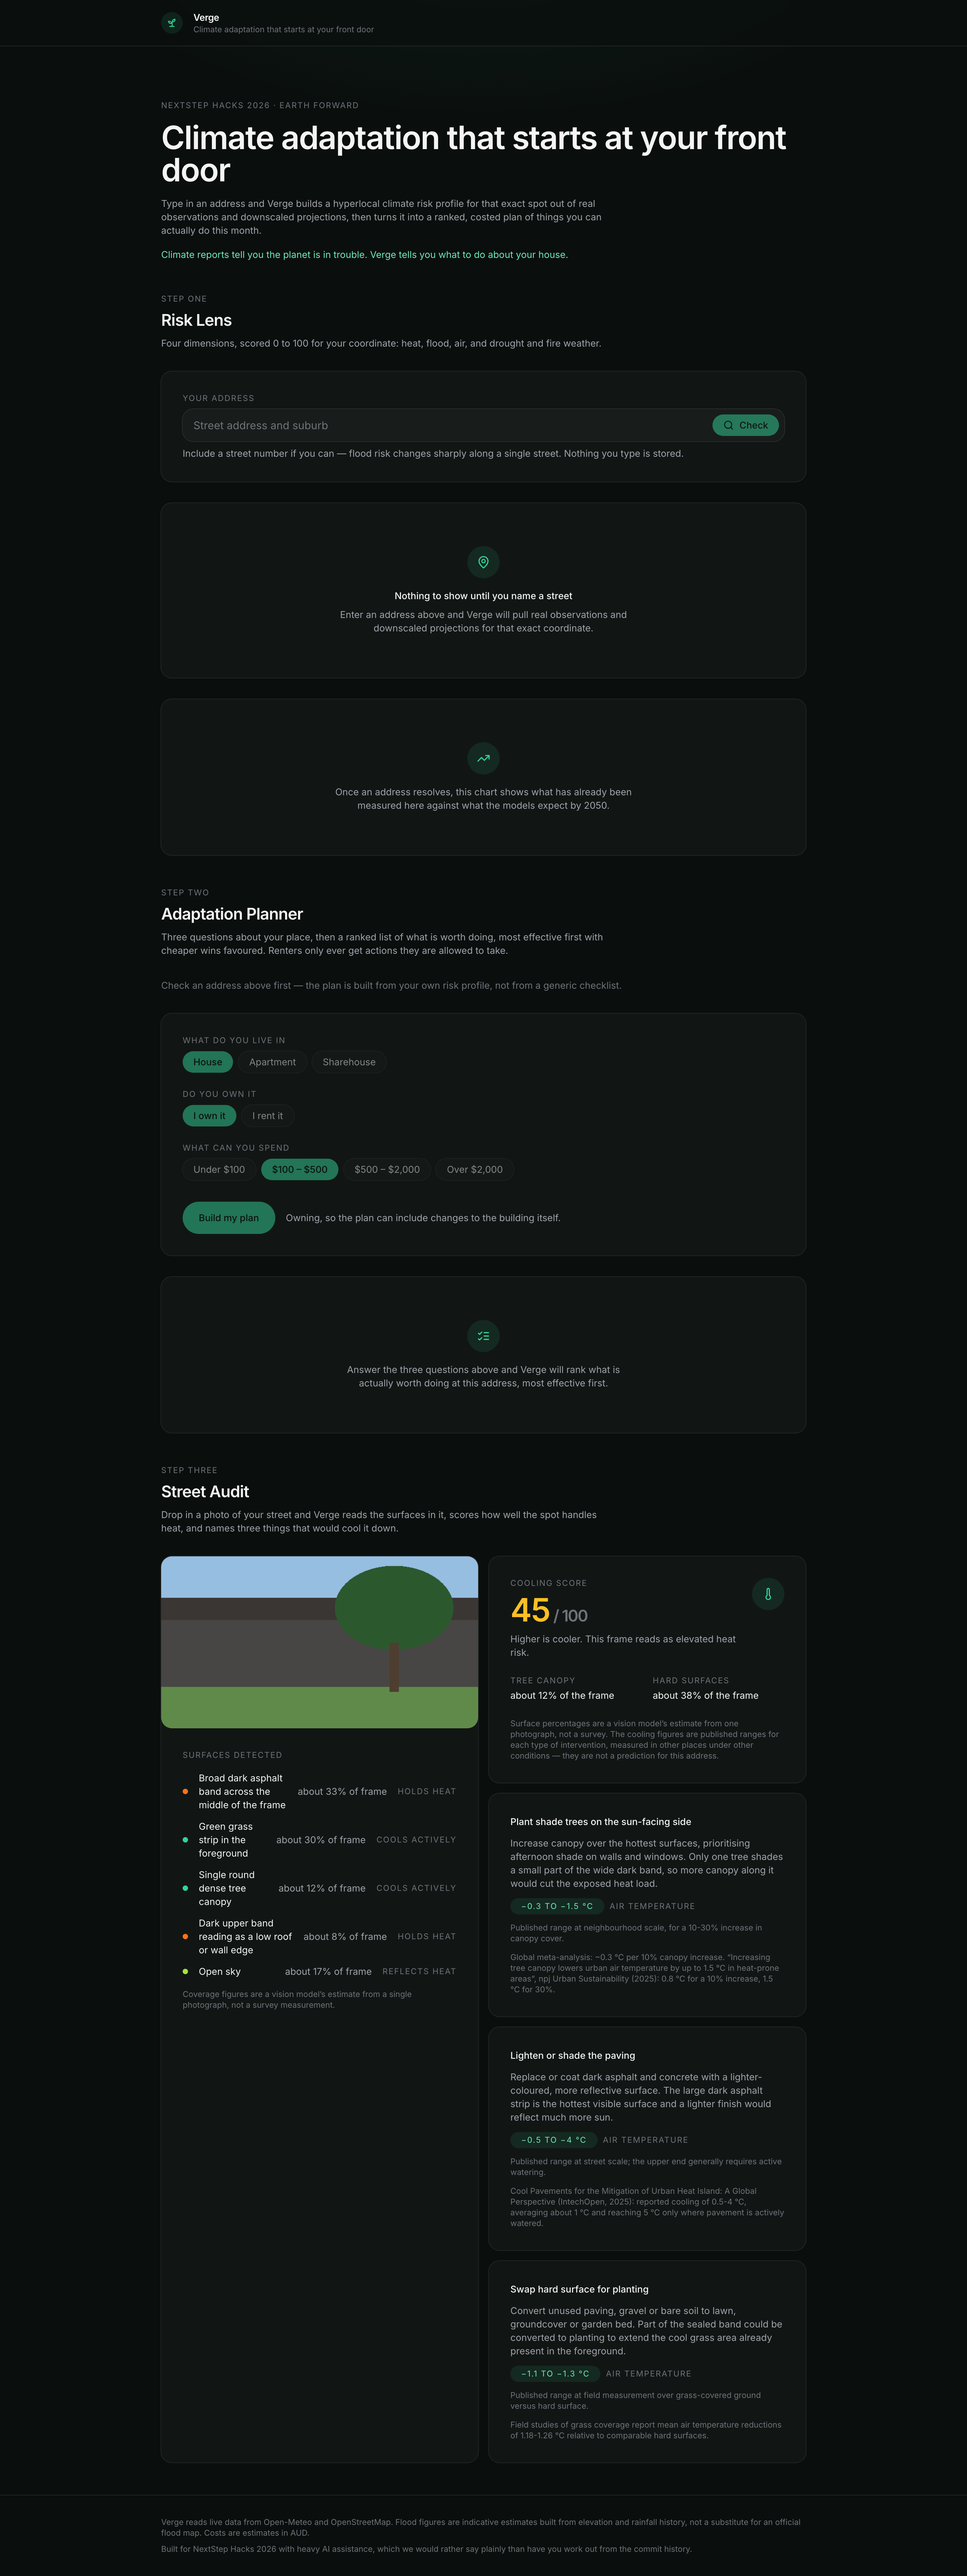
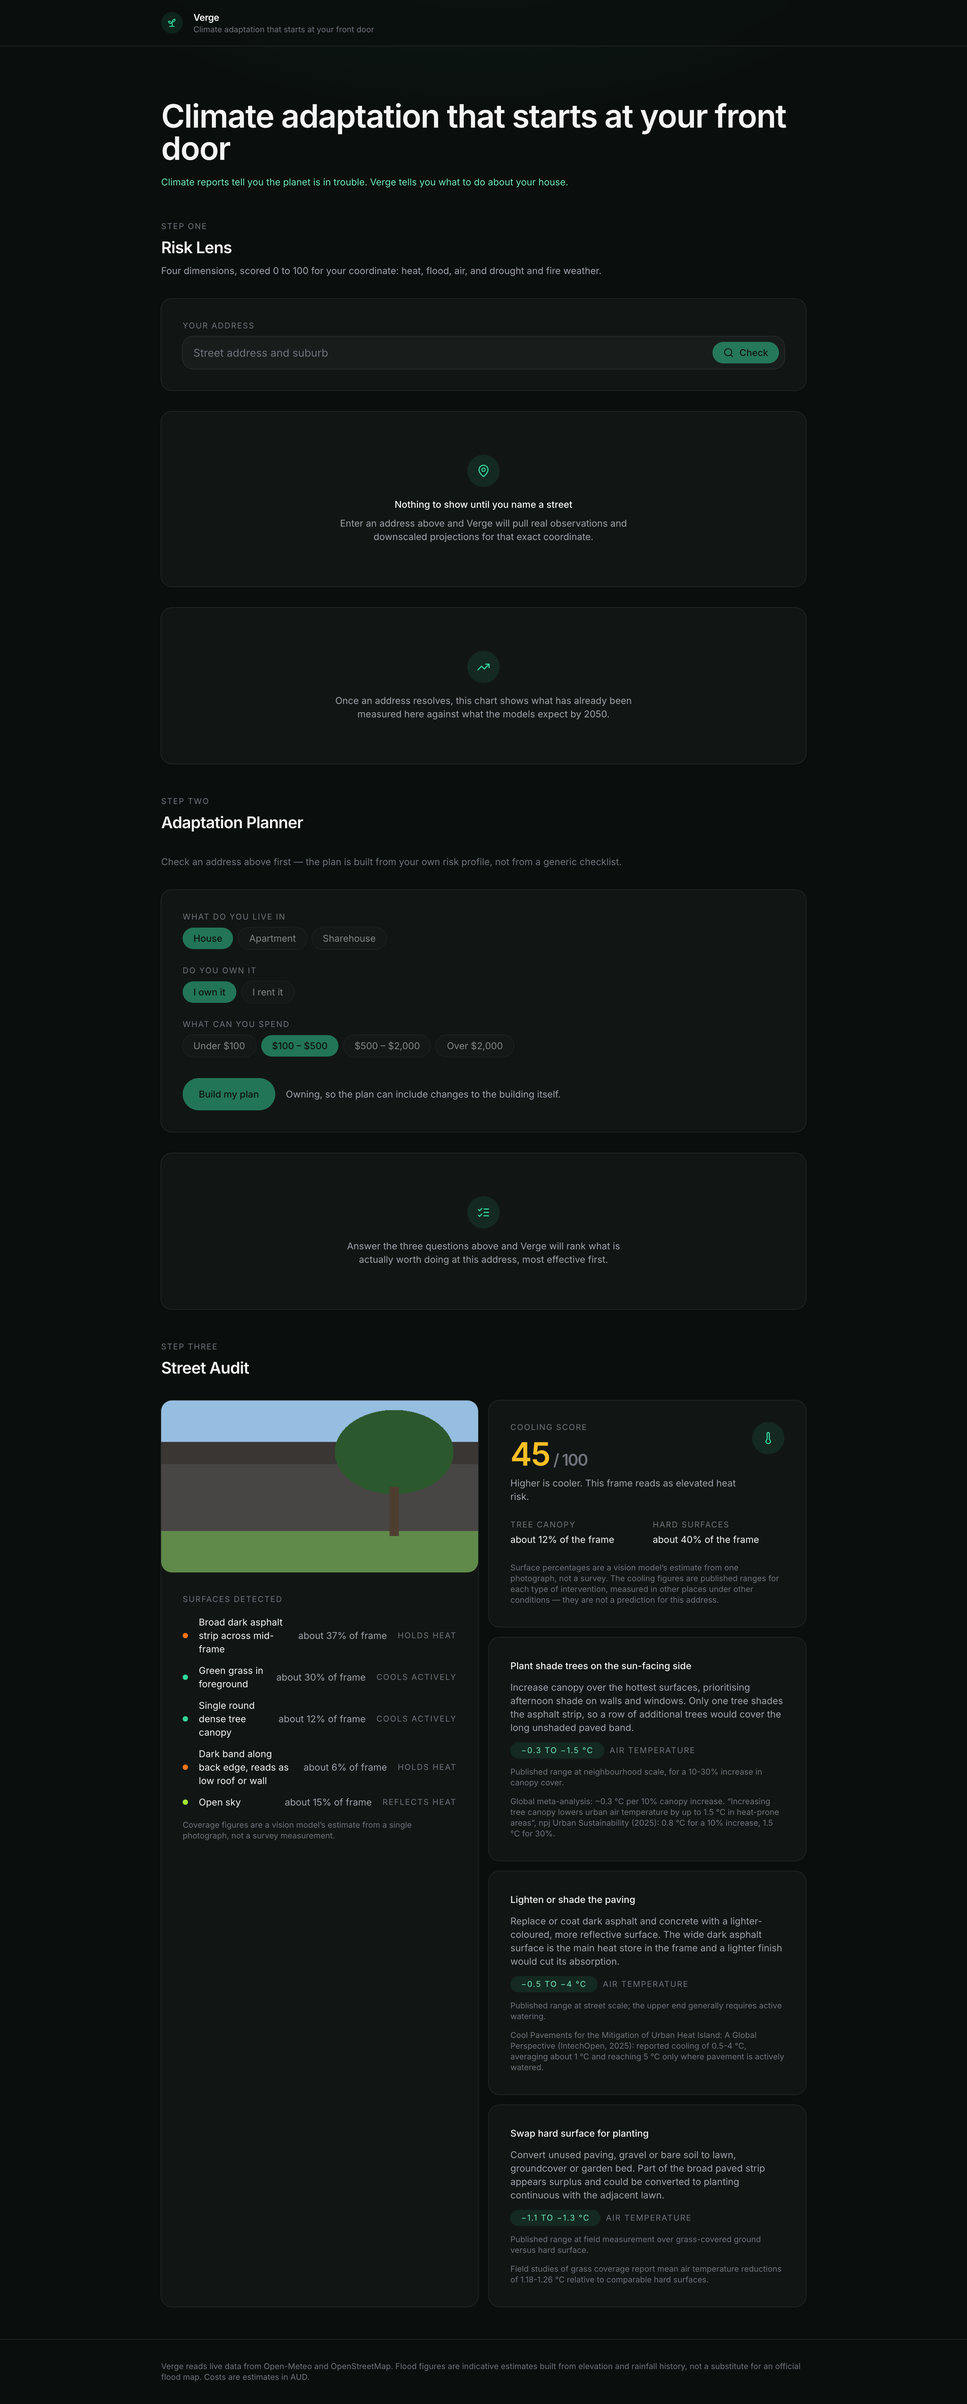
Strip explanatory copy from the live app
Removes eight blocks of prose: the hackathon eyebrow, the hero paragraph, the
address hint, the chart provenance caption, the Planner and Street Audit
section descriptions, the AI-assistance footer line, and the plan disclaimer.

The page was explaining itself where it should have been demonstrating itself.
The hero is now the headline and the positioning line alone, which lands
harder than the paragraph underneath it did.

Checked before removing that nothing required by section 7 leaves the product:

- Costs still read "estimate, AUD" inline on every action card, and the footer
  still says costs are estimates.
- Flood is still labelled "Indicative only - not a flood map" in the dial's own
  verdict, and the footer repeats it.
- The CMIP6 model and the no-SSP note still travel with the heat dial's
  evidence, one click behind "How we got this".
- The AI-assistance disclosure is in README.md, which is what section 7 asks
  for; the footer line was an extra.

Left alone: the PDF export's own footer, which carries the same disclosures on
a document that leaves the app.

diff --git a/src/App.tsx b/src/App.tsx
@@ -89,17 +89,9 @@ export default function App() {
     <AppShell>
       {/* Hero */}
       <section className="space-y-4 pt-4 md:pt-8">
-        <p className="text-xs uppercase tracking-widest text-zinc-500">
-          NextStep Hacks 2026 · Earth Forward
-        </p>
         <h1 className="text-3xl font-semibold tracking-tight text-zinc-100 md:text-5xl">
           Climate adaptation that starts at your front door
         </h1>
-        <p className="max-w-2xl text-sm text-zinc-400">
-          Type in an address and Verge builds a hyperlocal climate risk profile for that
-          exact spot out of real observations and downscaled projections, then turns it
-          into a ranked, costed plan of things you can actually do this month.
-        </p>
         <p className="max-w-2xl text-sm text-accent-text">
           Climate reports tell you the planet is in trouble. Verge tells you what to do
           about your house.
@@ -155,7 +147,6 @@ export default function App() {
         <SectionHeading
           eyebrow="Step two"
           title="Adaptation Planner"
-          description="Three questions about your place, then a ranked list of what is worth doing, most effective first with cheaper wins favoured. Renters only ever get actions they are allowed to take."
         />
 
         {profile ? null : (
@@ -186,7 +177,6 @@ export default function App() {
         <SectionHeading
           eyebrow="Step three"
           title="Street Audit"
-          description="Drop in a photo of your street and Verge reads the surfaces in it, scores how well the spot handles heat, and names three things that would cool it down."
         />
 
         {audit.state.status === 'idle' ? (

diff --git a/src/components/planner/PlanList.tsx b/src/components/planner/PlanList.tsx
@@ -138,14 +138,6 @@ export function PlanList({ plan, loading = false, error, onRetry }: PlanListProp
         </motion.div>
       ))}
 
-      <p className="text-xs text-zinc-500">
-        Costs are estimates in Australian dollars, not quotes. Impact scores are the model’s own
-        estimate, not a measurement. Actions are ranked by impact, with cheaper wins favoured
-        where impact is close.{' '}
-        {plan.dwelling.tenure === 'rent'
-          ? 'Only actions a tenant can take without the owner’s permission are shown.'
-          : 'Some actions alter the building and may need approval.'}
-      </p>
     </div>
   )
 }

diff --git a/src/components/lens/AddressSearch.tsx b/src/components/lens/AddressSearch.tsx
@@ -40,11 +40,6 @@ export function AddressSearch({ onSearch, loading = false, error }: AddressSearc
         autoComplete="street-address"
         disabled={loading}
         {...(error === undefined ? {} : { error })}
-        {...(error === undefined
-          ? {
-              hint: 'Include a street number if you can — flood risk changes sharply along a single street. Nothing you type is stored.',
-            }
-          : {})}
         trailing={
           <Button type="submit" size="sm" loading={loading} disabled={trimmed.length < 3}>
             <Search className="h-4 w-4" aria-hidden="true" />

diff --git a/src/components/layout/AppShell.tsx b/src/components/layout/AppShell.tsx
@@ -28,10 +28,6 @@ export function AppShell({ children }: AppShellProps) {
             indicative estimates built from elevation and rainfall history, not a
             substitute for an official flood map. Costs are estimates in AUD.
           </p>
-          <p>
-            Built for NextStep Hacks 2026 with heavy AI assistance, which we would
-            rather say plainly than have you work out from the commit history.
-          </p>
         </div>
       </footer>
     </div>

diff --git a/src/components/lens/TrendChart.tsx b/src/components/lens/TrendChart.tsx
@@ -140,9 +140,6 @@ export function TrendChart({
             </div>
           </div>
 
-          <p className="mt-4 text-sm text-zinc-400">
-            Historical reanalysis in grey, modelled projection in colour. {projection.scenario}
-          </p>
         </div>
 
         <div className="h-80 w-full">
